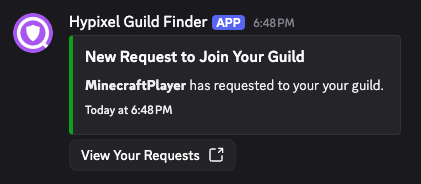
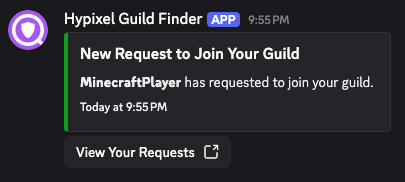
typo fix

Changed region(s): [[0.0, 0.0549, 0.9481, 0.7418], [0.1778, 0.7967, 0.563, 0.9066]]

diff --git a/lib/discord-client.ts b/lib/discord-client.ts
@@ -46,7 +46,7 @@ export async function sendDiscordGuildRequestNotification(
           embeds: [
             {
               title: `New Request to Join Your Guild`,
-              description: `**${userMCUsername}** has requested to your your guild.`,
+              description: `**${userMCUsername}** has requested to join your guild.`,
               color: 0x0fa01b,
               timestamp: new Date().toISOString(),
             },
